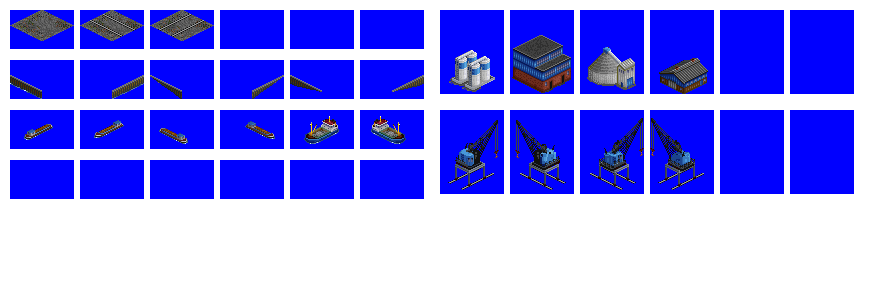
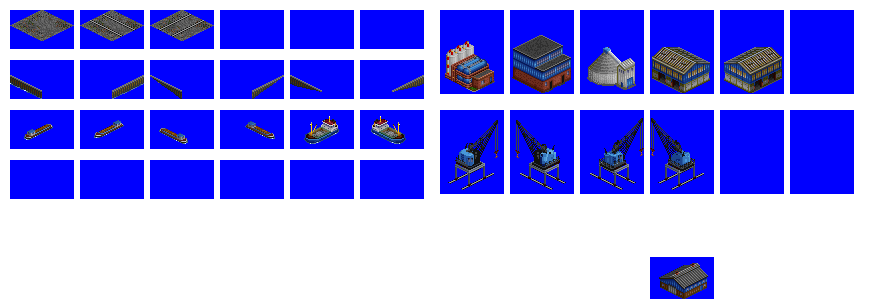
Change: WIP on renewed wharf layout

Changed region(s): [[0.7364, 0.15, 0.8898, 0.33], [0.7364, 0.84, 0.8284, 1.0], [0.4909, 0.15, 0.583, 0.3]]

diff --git a/src/industries/wharf.py b/src/industries/wharf.py
@@ -115,8 +115,11 @@ spriteset_silos = industry.add_spriteset(
 spriteset_cone_silo = industry.add_spriteset(
     sprites=[(580, 10, 64, 84, -31, -61)],
 )
-spriteset_warehouse = industry.add_spriteset(
+spriteset_warehouse_nw_se = industry.add_spriteset(
     sprites=[(650, 10, 64, 84, -31, -61)],
+)
+spriteset_warehouse_ne_sw = industry.add_spriteset(
+    sprites=[(720, 10, 64, 84, -31, -61)],
 )
 spriteset_large_crane_ne_sw = industry.add_spriteset(
     sprites=[(440, 110, 64, 84, -31, -43)],
@@ -198,28 +201,11 @@ industry.add_spritelayout(
 )
 industry.add_magic_spritelayout(
     type="jetty_coast_foundations",
-    base_id="wharf_spritelayout_coast_tanks",
+    base_id="wharf_spritelayout_coast_empty",
     tile="wharf_tile_2",
     config={
         "ground_sprite": spriteset_ground_empty,  # should always be empty for this magic spritelayout
-        "building_sprites": [spriteset_concrete, spriteset_tanks],
-        "foundation_sprites": {
-            "ne_sw": spriteset_jetty_ne_sw,
-            "se_nw": spriteset_jetty_se_nw,
-            "slope_nw_se": spriteset_jetty_slope_nw_se,
-            "slope_ne_sw": spriteset_jetty_slope_ne_sw,
-            "slope_se_nw": spriteset_jetty_slope_se_nw,
-            "slope_sw_ne": spriteset_jetty_slope_sw_ne,
-        },
-    },
-)
-industry.add_magic_spritelayout(
-    type="jetty_coast_foundations",
-    base_id="wharf_spritelayout_coast_warehouse",
-    tile="wharf_tile_2",
-    config={
-        "ground_sprite": spriteset_ground_empty,  # should always be empty for this magic spritelayout
-        "building_sprites": [spriteset_concrete, spriteset_warehouse],
+        "building_sprites": [spriteset_concrete],
         "foundation_sprites": {
             "ne_sw": spriteset_jetty_ne_sw,
             "se_nw": spriteset_jetty_se_nw,
@@ -315,13 +301,61 @@ industry.add_magic_spritelayout(
                 spriteset_large_crane_ne_sw,
             ],
             "sw": [
-                spriteset_large_crane_se_nw,
+                spriteset_large_crane_nw_se,
             ],
             "nw": [
-                spriteset_large_crane_ne_sw,
+                spriteset_large_crane_sw_ne,
             ],
             "ne": [
                 spriteset_large_crane_se_nw,
+            ],
+        },
+    },
+)
+industry.add_magic_spritelayout(
+    type="jetty_auto_orient_to_coast_direction",
+    base_id="wharf_spritelayout_tanks_auto_orient",
+    tile="wharf_tile_1",
+    config={
+        "ground_sprite": spriteset_ground_empty,  # should always be empty for this magic spritelayout
+        "foundation_sprites": [spriteset_jetty_ne_sw, spriteset_jetty_se_nw],
+        "jetty_top_sprites": [spriteset_concrete],
+        "building_sprites": {
+            "se": [
+                spriteset_tanks,
+            ],
+            "sw": [
+                spriteset_tanks,
+            ],
+            "nw": [
+                spriteset_tanks,
+            ],
+            "ne": [
+                spriteset_tanks,
+            ],
+        },
+    },
+)
+industry.add_magic_spritelayout(
+    type="jetty_auto_orient_to_coast_direction",
+    base_id="wharf_spritelayout_warehouse_auto_orient",
+    tile="wharf_tile_1",
+    config={
+        "ground_sprite": spriteset_ground_empty,  # should always be empty for this magic spritelayout
+        "foundation_sprites": [spriteset_jetty_ne_sw, spriteset_jetty_se_nw],
+        "jetty_top_sprites": [spriteset_concrete],
+        "building_sprites": {
+            "se": [
+                spriteset_warehouse_ne_sw,
+            ],
+            "sw": [
+                spriteset_warehouse_nw_se,
+            ],
+            "nw": [
+                spriteset_warehouse_ne_sw,
+            ],
+            "ne": [
+                spriteset_warehouse_nw_se,
             ],
         },
     },
@@ -377,54 +411,62 @@ industry.add_magic_spritelayout(
 industry.add_industry_jetty_layout(
     id="wharf_industry_jetty_layout_1",
     layout=[
-        (0, 0, "wharf_spritelayout_coast_tanks"),
-        (0, 1, "wharf_spritelayout_crane_parallel_auto_orient"),
-        (0, 2, "wharf_spritelayout_crane_rails_parallel_auto_orient"),
-        (0, 3, "wharf_spritelayout_crane_parallel_auto_orient"),
-        (0, 4, "wharf_spritelayout_11"),
-        (0, 5, "wharf_spritelayout_crane_rails_parallel_auto_orient"),
-        (0, 6, "wharf_spritelayout_crane_parallel_auto_orient"),
-        (0, 7, "spritelayout_null_water"),
-        (1, 4, "wharf_spritelayout_crane_rails_orthogonal_auto_orient"),
-        (1, 5, "wharf_spritelayout_water_barge_auto_orient"),
-        (1, 6, "wharf_spritelayout_water_barge_auto_orient"),
-        (2, 4, "wharf_spritelayout_crane_orthogonal_auto_orient"),
-        (2, 5, "wharf_spritelayout_water_ship_auto_orient"),
-        (2, 6, "wharf_spritelayout_water_ship_auto_orient"),
-        (3, 4, "wharf_spritelayout_11"),
-        (3, 5, "wharf_spritelayout_crane_rails_parallel_auto_orient"),
-        (3, 6, "wharf_spritelayout_crane_parallel_auto_orient"),
-        (3, 7, "spritelayout_null_water"),
-        (4, 2, "spritelayout_null_water"),  # clearance around t-piece jetty
-        (4, 3, "spritelayout_null_water"),  # clearance around t-piece jetty
-        (4, 4, "spritelayout_null_water"),  # clearance around t-piece jetty
-        (4, 5, "spritelayout_null_water"),  # clearance around t-piece jetty
+        (0, 0, "wharf_spritelayout_coast_empty"),
+        (0, 1, "wharf_spritelayout_jetty_empty"),
+        (0, 2, "wharf_spritelayout_jetty_empty"),
+        (0, 3, "wharf_spritelayout_jetty_empty"),
+        (0, 4, "wharf_spritelayout_jetty_empty"),
+        (0, 5, "wharf_spritelayout_jetty_empty"),
+        (0, 6, "wharf_spritelayout_crane_orthogonal_auto_orient"),
+        (0, 7, "wharf_spritelayout_water_barge_auto_orient"),
+        (0, 8, "spritelayout_null_water"),
+        (1, 5, "wharf_spritelayout_warehouse_auto_orient"),
+        (1, 6, "wharf_spritelayout_crane_rails_orthogonal_auto_orient"),
+        (1, 7, "wharf_spritelayout_water_barge_auto_orient"),
+        (1, 8, "spritelayout_null_water"),
+        (2, 5, "wharf_spritelayout_warehouse_auto_orient"),
+        (2, 6, "wharf_spritelayout_crane_rails_orthogonal_auto_orient"),
+        (2, 7, "wharf_spritelayout_water_ship_auto_orient"),
+        (2, 8, "spritelayout_null_water"),
+        (3, 5, "wharf_spritelayout_warehouse_auto_orient"),
+        (3, 6, "wharf_spritelayout_crane_orthogonal_auto_orient"),
+        (3, 7, "wharf_spritelayout_water_ship_auto_orient"),
+        (3, 8, "spritelayout_null_water"),
+        (4, 5, "wharf_spritelayout_warehouse_auto_orient"),
+        (4, 6, "wharf_spritelayout_crane_rails_orthogonal_auto_orient"),
+        (4, 7, "spritelayout_null_water"),
+        (4, 8, "spritelayout_null_water"),
+        (5, 4, "spritelayout_null_water"),
+        (5, 5, "spritelayout_null_water"),
+        (5, 6, "spritelayout_null_water"),
+        (5, 7, "spritelayout_null_water"),
+        (5, 8, "spritelayout_null_water"),
     ],
 )
 industry.add_industry_jetty_layout(
     id="wharf_industry_jetty_layout_2",
     layout=[
-        (0, 2, "spritelayout_null_water"),  # clearance around t-piece jetty
-        (0, 3, "spritelayout_null_water"),  # clearance around t-piece jetty
-        (0, 4, "spritelayout_null_water"),  # clearance around t-piece jetty
-        (0, 5, "spritelayout_null_water"),  # clearance around t-piece jetty
-        (1, 4, "wharf_spritelayout_cone_silo"),
-        (1, 5, "wharf_spritelayout_crane_rails_parallel_auto_orient"),
-        (1, 6, "wharf_spritelayout_crane_parallel_auto_orient"),
-        (1, 7, "spritelayout_null_water"),
-        (2, 4, "wharf_spritelayout_crane_orthogonal_auto_orient"),
-        (2, 5, "wharf_spritelayout_water_barge_auto_orient"),
-        (2, 6, "wharf_spritelayout_water_barge_auto_orient"),
-        (3, 4, "wharf_spritelayout_crane_rails_orthogonal_auto_orient"),
-        (3, 5, "wharf_spritelayout_water_ship_auto_orient"),
-        (3, 6, "wharf_spritelayout_water_ship_auto_orient"),
-        (4, 0, "wharf_spritelayout_coast_warehouse"),
-        (4, 1, "wharf_spritelayout_crane_rails_parallel_auto_orient"),
-        (4, 2, "wharf_spritelayout_crane_parallel_auto_orient"),
-        (4, 3, "wharf_spritelayout_crane_rails_parallel_auto_orient"),
-        (4, 4, "wharf_spritelayout_cone_silo"),
-        (4, 5, "wharf_spritelayout_crane_rails_parallel_auto_orient"),
-        (4, 6, "wharf_spritelayout_crane_parallel_auto_orient"),
-        (4, 7, "spritelayout_null_water"),
+        (0, 4, "wharf_spritelayout_tanks_auto_orient"),
+        (0, 5, "wharf_spritelayout_tanks_auto_orient"),
+        (0, 6, "wharf_spritelayout_tanks_auto_orient"),
+        (0, 7, "wharf_spritelayout_crane_rails_orthogonal_auto_orient"),
+        (0, 8, "wharf_spritelayout_water_ship_auto_orient"),
+        (0, 9, "spritelayout_null_water"),
+        (1, 0, "wharf_spritelayout_coast_empty"),
+        (1, 1, "wharf_spritelayout_jetty_empty"),
+        (1, 2, "wharf_spritelayout_jetty_empty"),
+        (1, 3, "wharf_spritelayout_jetty_empty"),
+        (1, 4, "wharf_spritelayout_jetty_empty"),
+        (1, 5, "wharf_spritelayout_tanks_auto_orient"),
+        (1, 6, "wharf_spritelayout_tanks_auto_orient"),
+        (1, 7, "wharf_spritelayout_crane_orthogonal_auto_orient"),
+        (1, 8, "wharf_spritelayout_water_barge_auto_orient"),
+        (1, 9, "spritelayout_null_water"),
+        (2, 4, "wharf_spritelayout_tanks_auto_orient"),
+        (2, 5, "wharf_spritelayout_tanks_auto_orient"),
+        (2, 6, "wharf_spritelayout_tanks_auto_orient"),
+        (2, 7, "wharf_spritelayout_crane_orthogonal_auto_orient"),
+        (2, 8, "wharf_spritelayout_water_barge_auto_orient"),
+        (2, 9, "spritelayout_null_water"),
     ],
 )

diff --git a/src/industry.py b/src/industry.py
@@ -1818,11 +1818,11 @@ class Industry(object):
             (
                 "se",
                 [
-                    (jetty_layout_1.xy_dimensions[0] + 3, 0),
-                    (jetty_layout_1.xy_dimensions[0] + 3, 1),
-                    (jetty_layout_1.xy_dimensions[0] + 3, 2),
-                    (jetty_layout_1.xy_dimensions[0] + 3, -1),
-                    (jetty_layout_1.xy_dimensions[0] + 3, -2),
+                    (jetty_layout_2.xy_dimensions[0] + 3, 0),
+                    (jetty_layout_2.xy_dimensions[0] + 3, 1),
+                    (jetty_layout_2.xy_dimensions[0] + 3, 2),
+                    (jetty_layout_2.xy_dimensions[0] + 3, -1),
+                    (jetty_layout_2.xy_dimensions[0] + 3, -2),
                 ],
                 # note the transposition of the two layouts, to get the desired effect
                 jetty_layout_2.layout,
@@ -1857,11 +1857,11 @@ class Industry(object):
                 "ne",
                 [
                     # note that we have to use the x dimensions to calculate y offset as we are rotating this one 270 degrees
-                    (0, jetty_layout_1.xy_dimensions[0] + 3),
-                    (1, jetty_layout_1.xy_dimensions[0] + 3),
-                    (2, jetty_layout_1.xy_dimensions[0] + 3),
-                    (-1, jetty_layout_1.xy_dimensions[0] + 3),
-                    (-2, jetty_layout_1.xy_dimensions[0] + 3),
+                    (0, jetty_layout_2.xy_dimensions[0] + 3),
+                    (1, jetty_layout_2.xy_dimensions[0] + 3),
+                    (2, jetty_layout_2.xy_dimensions[0] + 3),
+                    (-1, jetty_layout_2.xy_dimensions[0] + 3),
+                    (-2, jetty_layout_2.xy_dimensions[0] + 3),
                 ],
                 # note the transposition of the two layouts, to get the desired effect
                 jetty_layout_2.layout_rotated_270,
